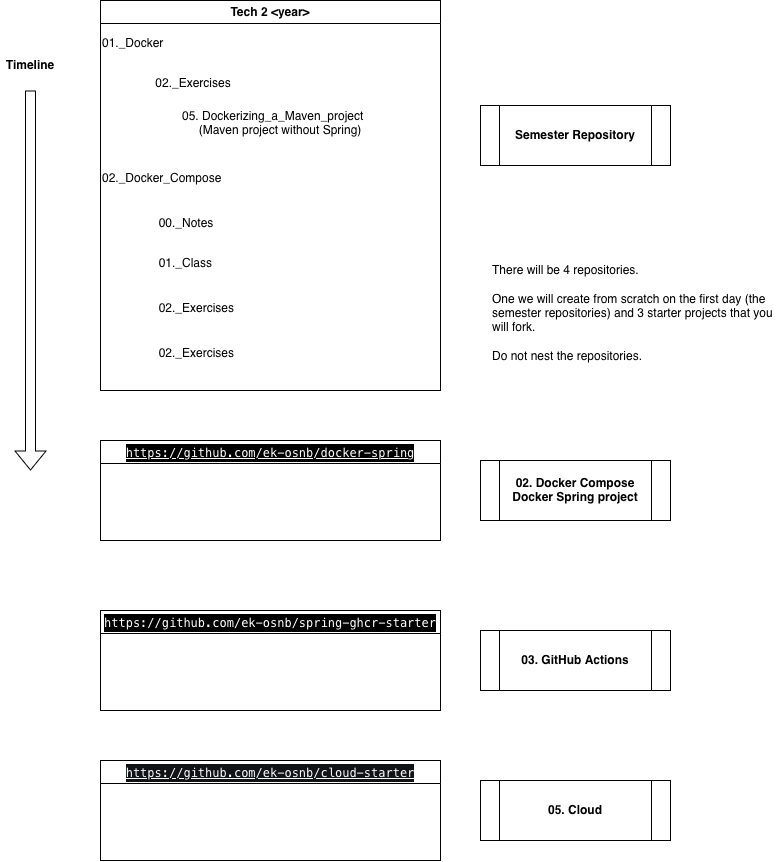
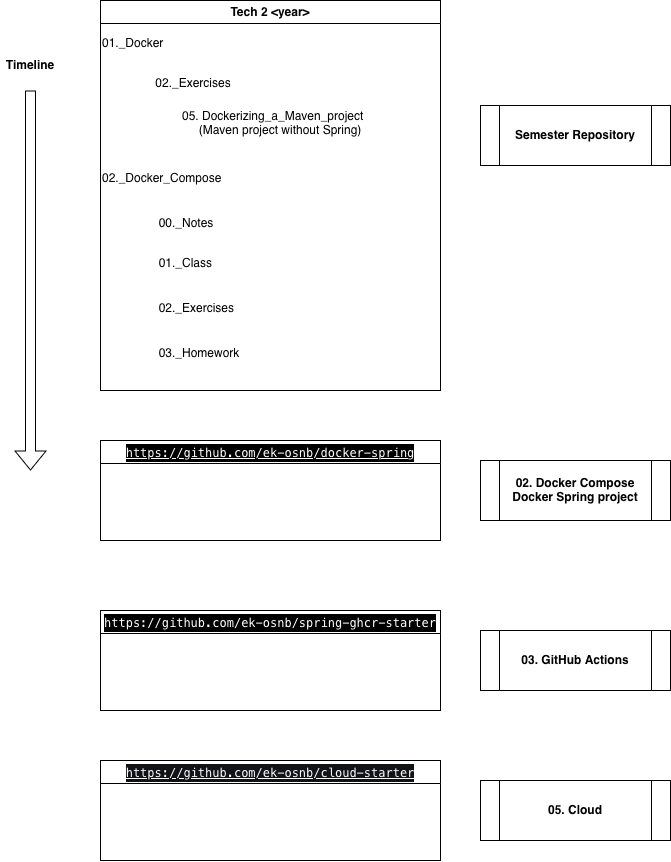
Updated the semester repository image and explanation

diff --git a/00._Course_Material/00._Meta_Course_Material/about_the_course.md b/00._Course_Material/00._Meta_Course_Material/about_the_course.md
@@ -22,8 +22,13 @@ Going to Code Lab for help is also a great idea.
 
 ### Repository Structure
 
-<img src="./tech_2_project_repositories.png" alt="respository structure tech 2">
+There will be 4 repositories. 
 
+One we will create from scratch on the first day (the semester repositories) and 3 starter projects that you will fork.
+
+Do not nest the repositories.
+
+<img src="./tech_2_project_repositories.png" alt="respository structure tech 2">
 
 ---
 
